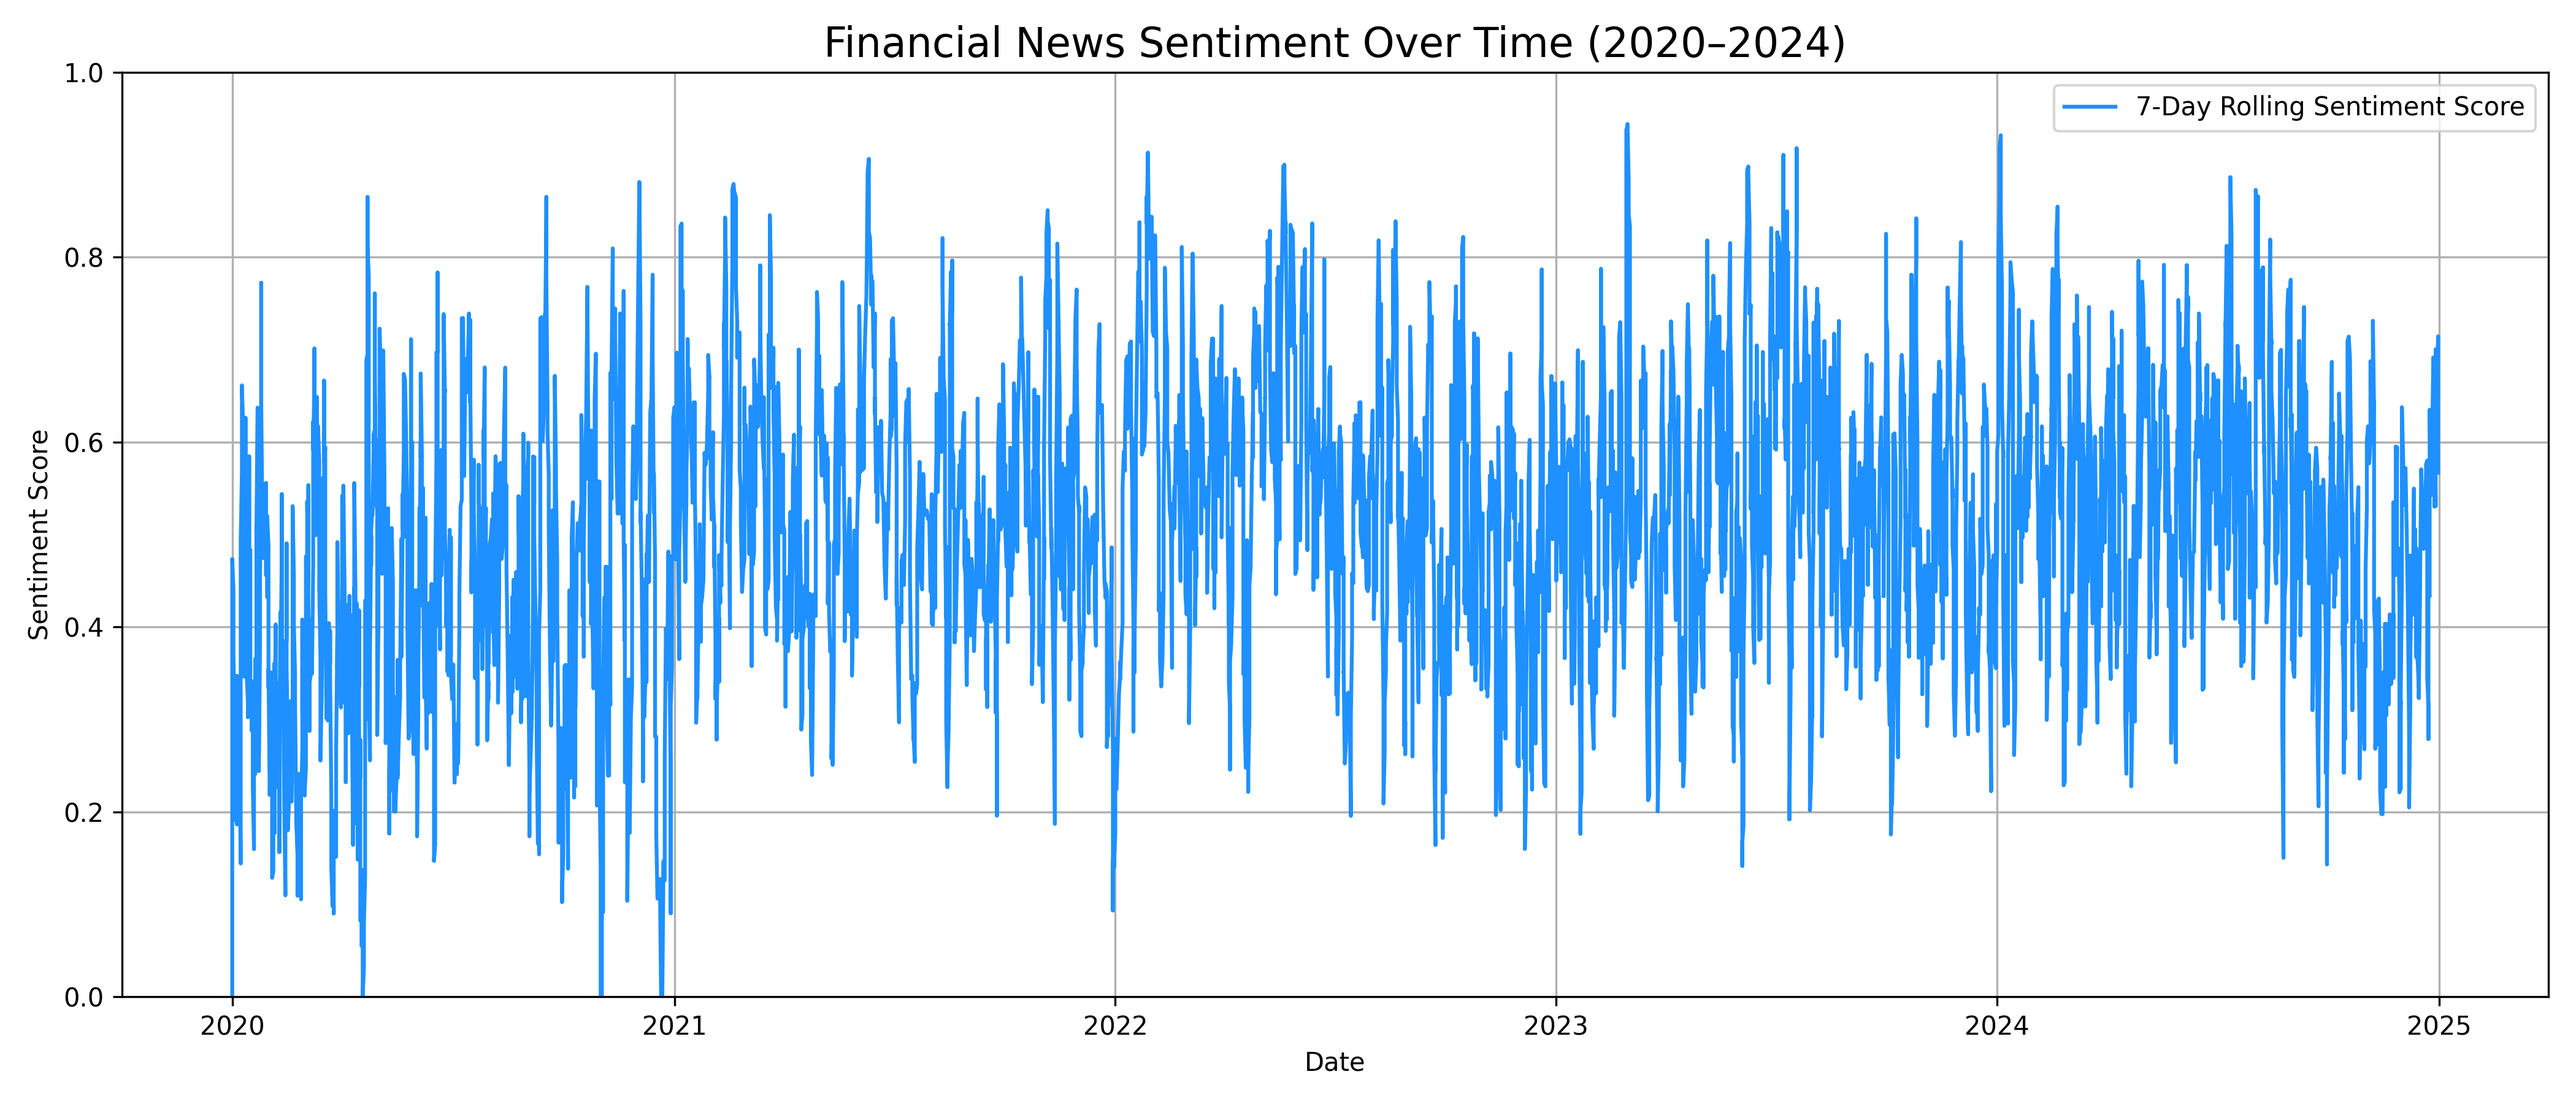
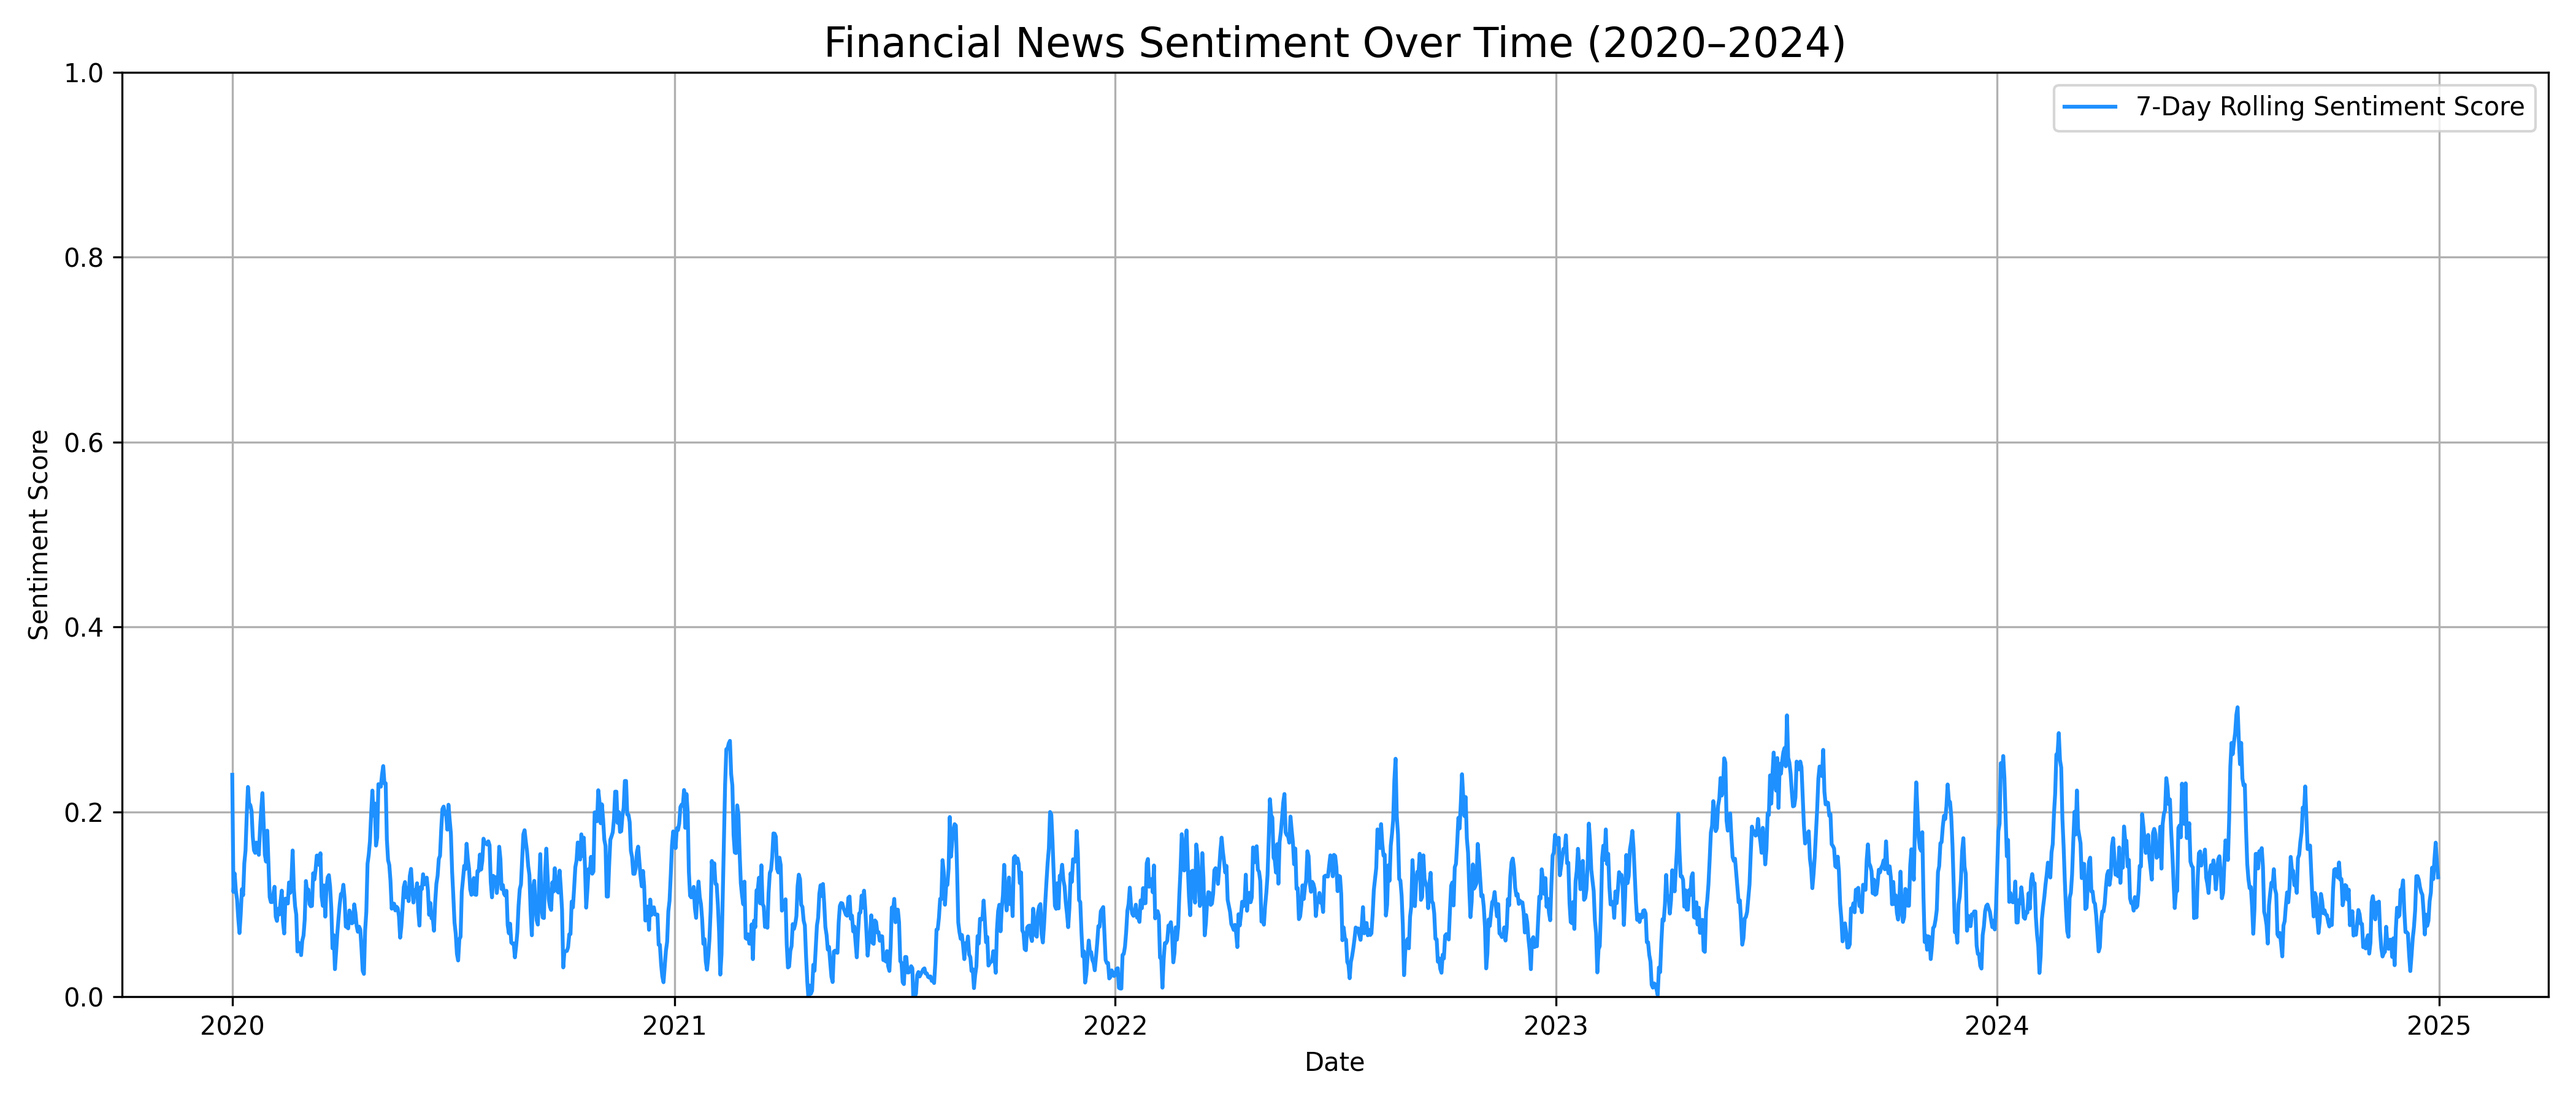
Fixed sm of cd

Changed region(s): [[0.0624, 0.1556, 0.9669, 0.9022]]

diff --git a/news_processing/dataframes.py b/news_processing/dataframes.py
@@ -2,7 +2,7 @@ import pandas as pd
 from sklearn.linear_model import LinearRegression
 import numpy as np
 
-# === Import CSV Files ===
+# Import CSV Files 
 text_blob_2020 = pd.read_csv("../news_processing/finace_article/financial_2020_2020-01-01.csv")
 finbert_2020 = pd.read_csv("../news_processing/using_finbert/financial_2020-01-01.csv")
 
@@ -18,16 +18,16 @@ finbert_2023 = pd.read_csv("../news_processing/using_finbert/financial_2023-01-0
 text_blob_2024 = pd.read_csv("../news_processing/finace_article/financial_2024_2024-01-01.csv")
 finbert_2024 = pd.read_csv("../news_processing/using_finbert/financial_2024-01-01.csv")
 
-# === Adjust TextBlob Sentiment Labels ===
+#  Adjust TextBlob Sentiment Labels 
 for df in [text_blob_2020, text_blob_2021, text_blob_2022, text_blob_2023, text_blob_2024]:
     df.loc[df['Score'] < 0.05, 'Sentiment'] = 'Negative'
     df.loc[df['Sentiment'] == 'Negative', 'Score'] = df['Score'].apply(lambda x: -abs(x) if pd.notna(x) else x)
 
-# === Adjust FinBERT Negative Scores ===
+#  Adjust FinBERT Negative Scores
 for df in [finbert_2020, finbert_2021, finbert_2022, finbert_2023, finbert_2024]:
     df.loc[df['Sentiment'] == 'negative', 'Score'] = df['Score'].apply(lambda x: -abs(x) if pd.notna(x) else x)
 
-# === Train Regression to Align TextBlob to FinBERT ===
+# Train Regression to Align TextBlob to FinBERT
 tb20 = text_blob_2020[text_blob_2020['Sentiment'].str.lower().isin(['positive', 'negative', 'neutral'])].copy()
 fb20 = finbert_2020[finbert_2020['Sentiment'].str.lower().isin(['positive', 'negative', 'neutral'])].copy()
 
@@ -51,7 +51,7 @@ X = pivoted['TextBlob'].values.reshape(-1, 1)
 y = pivoted['FinBERT'].values
 reg = LinearRegression().fit(X, y)
 
-# === Scale TextBlob Scores with Preserved Sign and Clip to [-1, 1] ===
+# Scale TextBlob Scores with Preserved Sign and Clip to [-1, 1]
 all_textblob_scaled = []
 
 for year, df in {
@@ -75,33 +75,33 @@ for year, df in {
 textblob_all_years = pd.concat(all_textblob_scaled, ignore_index=True)
 textblob_all_years['Source'] = 'TextBlob_scaled'
 
-# === Prepare FinBERT All Years Combined ===
+# Prepare FinBERT All Years Combined
 finbert_all_years = pd.concat([
     finbert_2020, finbert_2021, finbert_2022, finbert_2023, finbert_2024
 ], ignore_index=True)[['Date', 'Title', 'Score', 'Sentiment']]
 finbert_all_years['Source'] = 'FinBERT'
 
-# === Merge TextBlob and FinBERT ===
+# Merge TextBlob and FinBERT
 merged = pd.concat([textblob_all_years, finbert_all_years], ignore_index=True)
 merged.sort_values(by=["Date", "Title"], inplace=True)
 
-# === Ensure all dates covered ===
+# Ensure all dates covered
 all_dates = pd.date_range(start='2020-01-01', end='2024-12-31')
 full_index = pd.DataFrame({'Date': all_dates})
 merged['Date'] = pd.to_datetime(merged['Date'])
 complete = full_index.merge(merged, on='Date', how='left')
 
-# === Convert sentiment to signed score (extra precaution) ===
+# Convert sentiment to signed score
 complete['Sentiment'] = complete['Sentiment'].str.lower()
 complete.loc[complete['Sentiment'] == 'negative', 'Score'] *= -1
 
-# === Save full dataset ===
+# Save full dataset
 complete[['Date', 'Title', 'Score', 'Sentiment']].to_csv("FINAL_merged_with_all_dates.csv", index=False)
 
-# === Save score-only column ===
+# Save score-only column 
 score_only = complete[['Score']]
 score_only.to_csv("NEWS_SCORE_COLUMN_only.csv", index=False)
 
-# === Average score per day ===
+# Average score per day
 daily_avg = complete.groupby('Date', as_index=False)['Score'].mean()
 daily_avg.to_csv("DAILY_AVG_SCORE.csv", index=False)

diff --git a/news_processing/processing_data.py b/news_processing/processing_data.py
@@ -2,13 +2,13 @@ import pandas as pd
 import matplotlib.pyplot as plt
 
 # Load the completed file
-df = pd.read_csv("FINAL_DATA_merged_deduplicated_with_all_dates.csv")
+df = pd.read_csv("DAILY_AVG_SCORE.csv")
 df['Date'] = pd.to_datetime(df['Date'])
 
 # Sort for safety
 df.sort_values(by='Date', inplace=True)
 
-# Create a 7-day rolling mean (ignores NaNs)
+# Create a 7-day rolling mean
 df['RollingScore'] = df['Score'].rolling(window=7, min_periods=1).mean()
 
 # Plot
